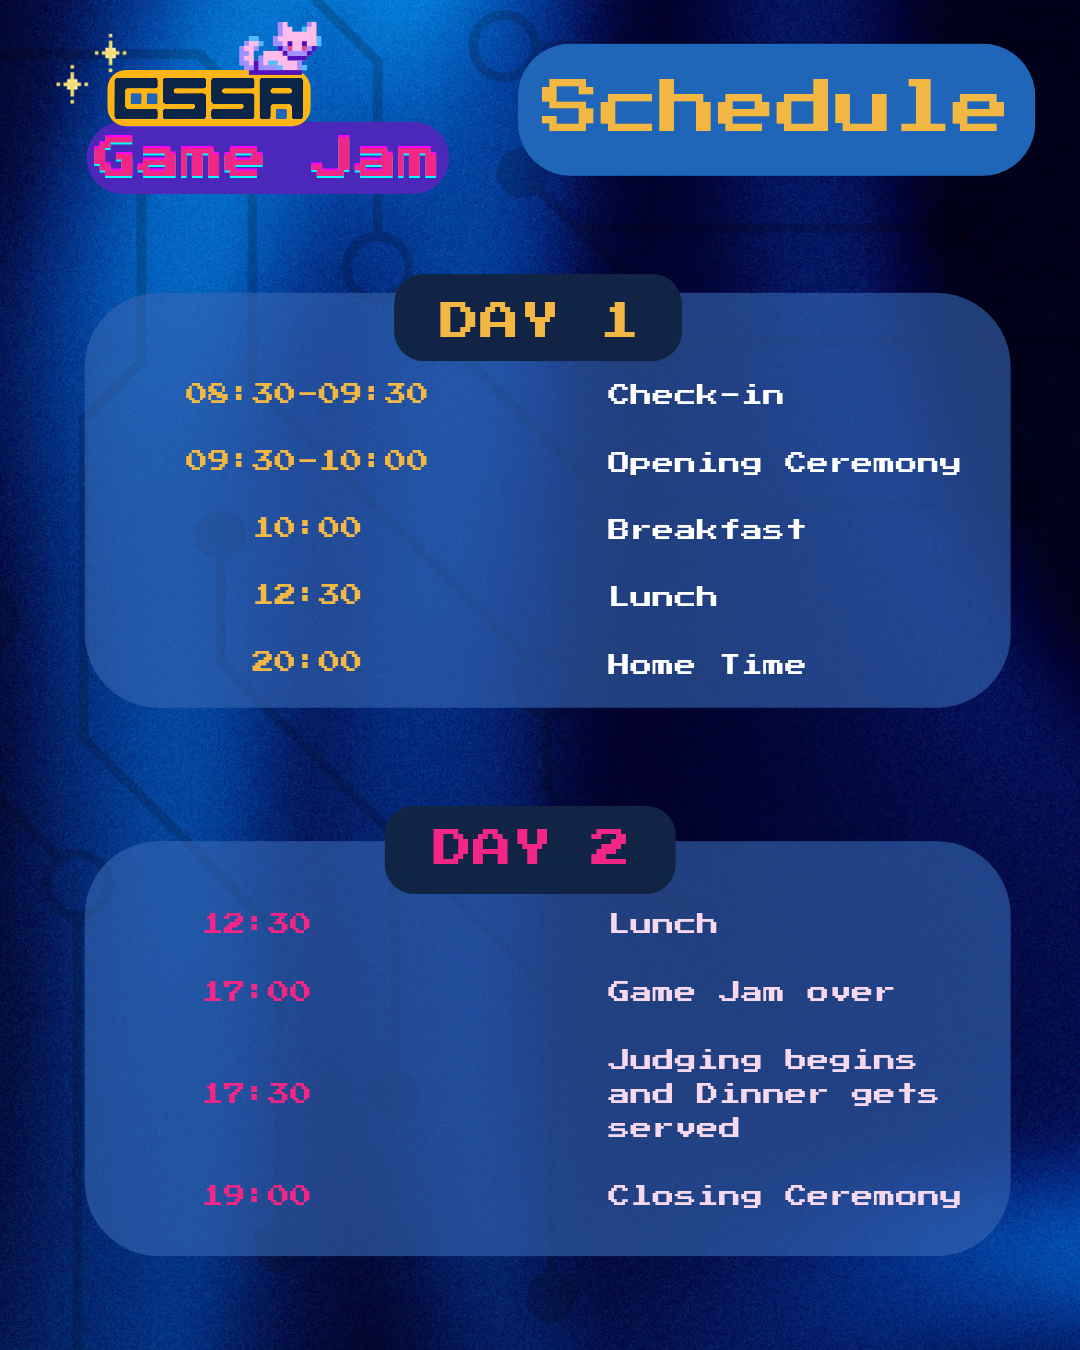
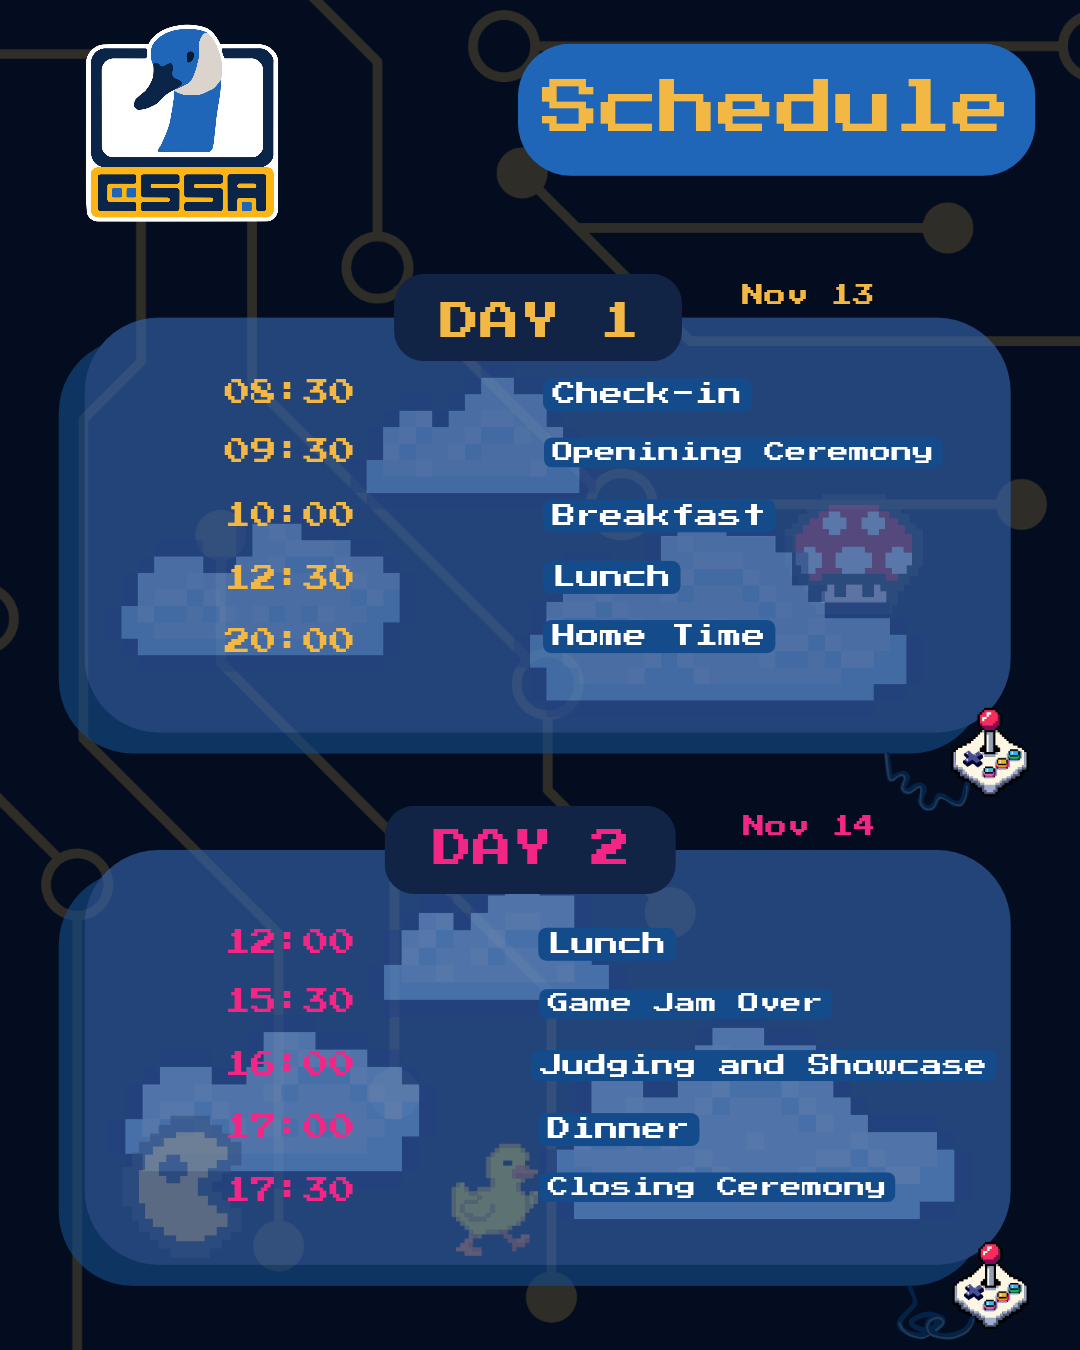
[WEB-262] Update graphics

diff --git a/src/data/events.ts b/src/data/events.ts
@@ -135,7 +135,20 @@ export const OlderEvents: ReadonlyMap<string, IEventCard> = new Map([
     ],
 ]);
 
-const AllUpcomingEvents: Map<string, IEventLink> = new Map([]);
+const AllUpcomingEvents: Map<string, IEventLink> = new Map([
+    [
+        'game-jam-2026',
+        {
+            title: 'Game Jam 2026',
+            date: new Date('November 13, 2026'),
+            description: 'Compete to build a game',
+            href: '/events/game-jam-2026',
+            internal: true,
+            linkText: 'View Page →',
+            image: '/img/game-jam/2026/gj_banner.png',
+        },
+    ],
+]);
 
 export const UpcomingEvents: IEventLink[] = (() => {
     const today = new Date();

diff --git a/src/app/events/game-jam-2026/page.tsx b/src/app/events/game-jam-2026/page.tsx
@@ -6,7 +6,7 @@ import SponsorCard from '@/components/sponsor-card';
 
 export default function GameJam2026() {
     return (
-        <main className="flex flex-col bg-[#024bad] ">
+        <main className="flex flex-col ">
             <div className="w-full max-w-[1200px] mx-auto px-4">
                 <Image
                     src="/img/game-jam/2026/gj_banner.png"
